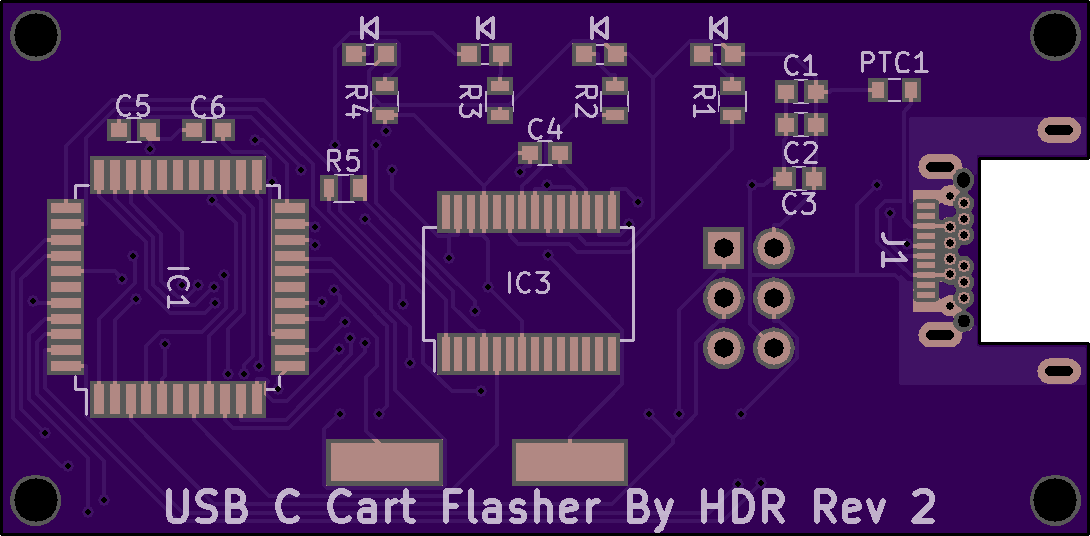
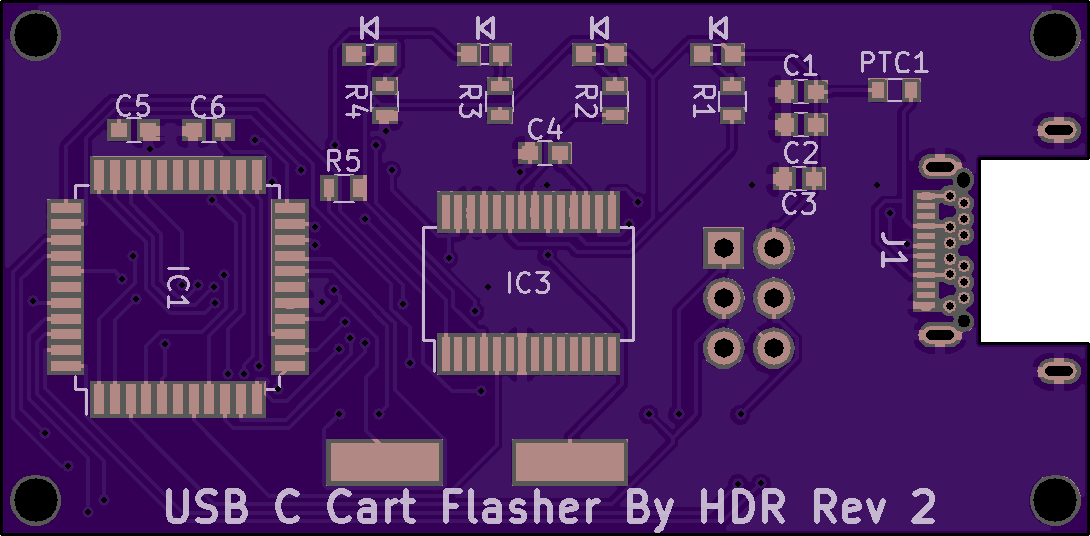
Version 2.2
Added ground planes to both sides

diff --git a/README.md b/README.md
@@ -1,7 +1,7 @@
 # GBFlasher-Mini
 A clone of jrodrigo's flasher but with usb c
 
-[Purchase on OSHPARK](https://oshpark.com/shared_projects/QA55haLS)
+[Purchase on OSHPARK](https://oshpark.com/shared_projects/dYO2oA9u)
 
 
 ## Images
